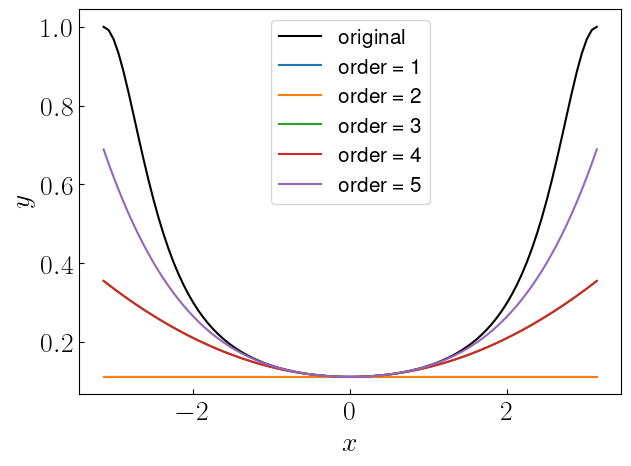
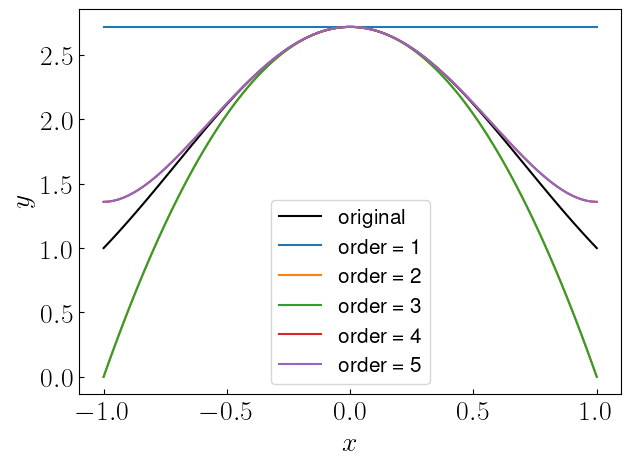
update problem 4 on midterm

diff --git a/Midterm/prob4.py b/Midterm/prob4.py
@@ -10,15 +10,16 @@ rcParams['font.family']         = 'sans-serif'
 rcParams['font.sans-serif']     = ['Helvetica']
 
 x = sp.Symbol('x')
-f = 1/(5+4*sp.cos(x))
+f = sp.exp(1-x**2)
 f_num = sp.lambdify(x,f,'numpy')
 
-X = np.linspace(-np.pi,np.pi,100)
+X = np.linspace(-1,1,100)
 fig, ax = plt.subplots(1,1,figsize=(7,5))
 ax.plot(X,f_num(X),'k-',label='original')
 for i in range(1,6):
-    fi = f.series(x,0,i).removeO()
-    print(i,':',fi)
+    fi = f.series(x,0,i+1)
+    fi = fi.removeO()
+    print('T_{}(x) = {}'.format(i,fi))  
     fi_num = sp.lambdify(x,fi,'numpy')
     ax.plot(X,np.vectorize(fi_num)(X),label='order = %d'%i)
 
